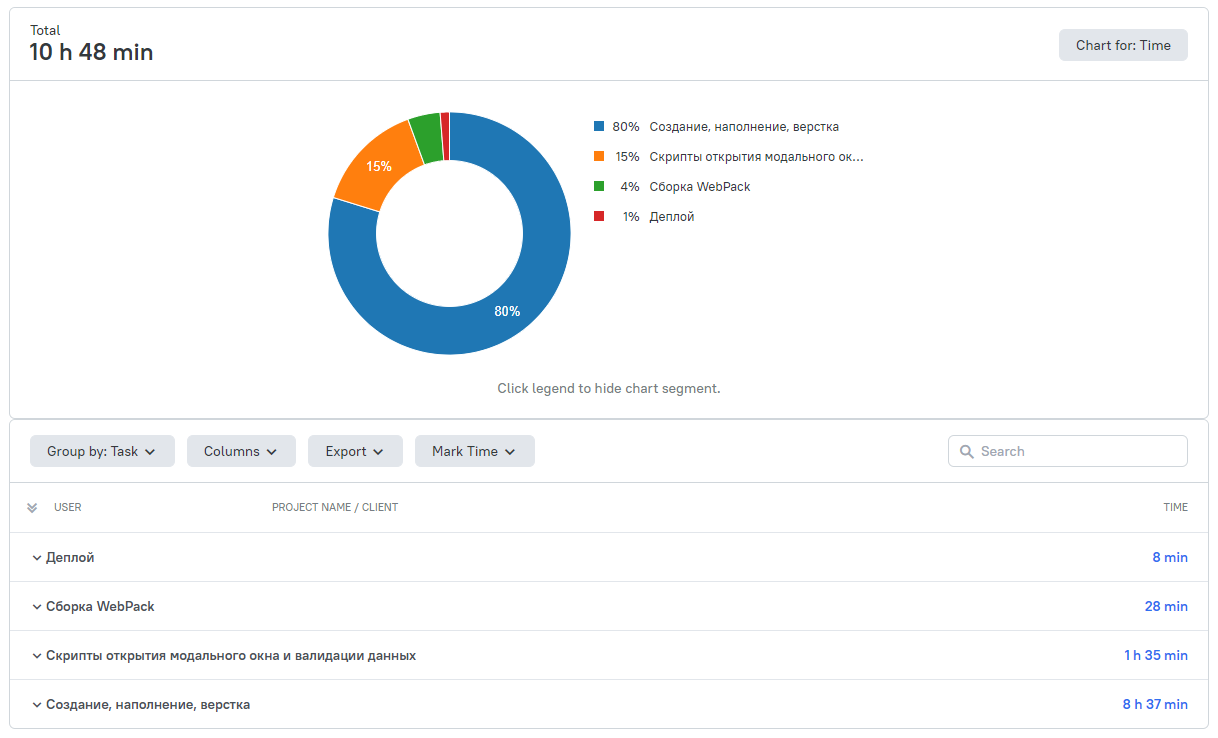
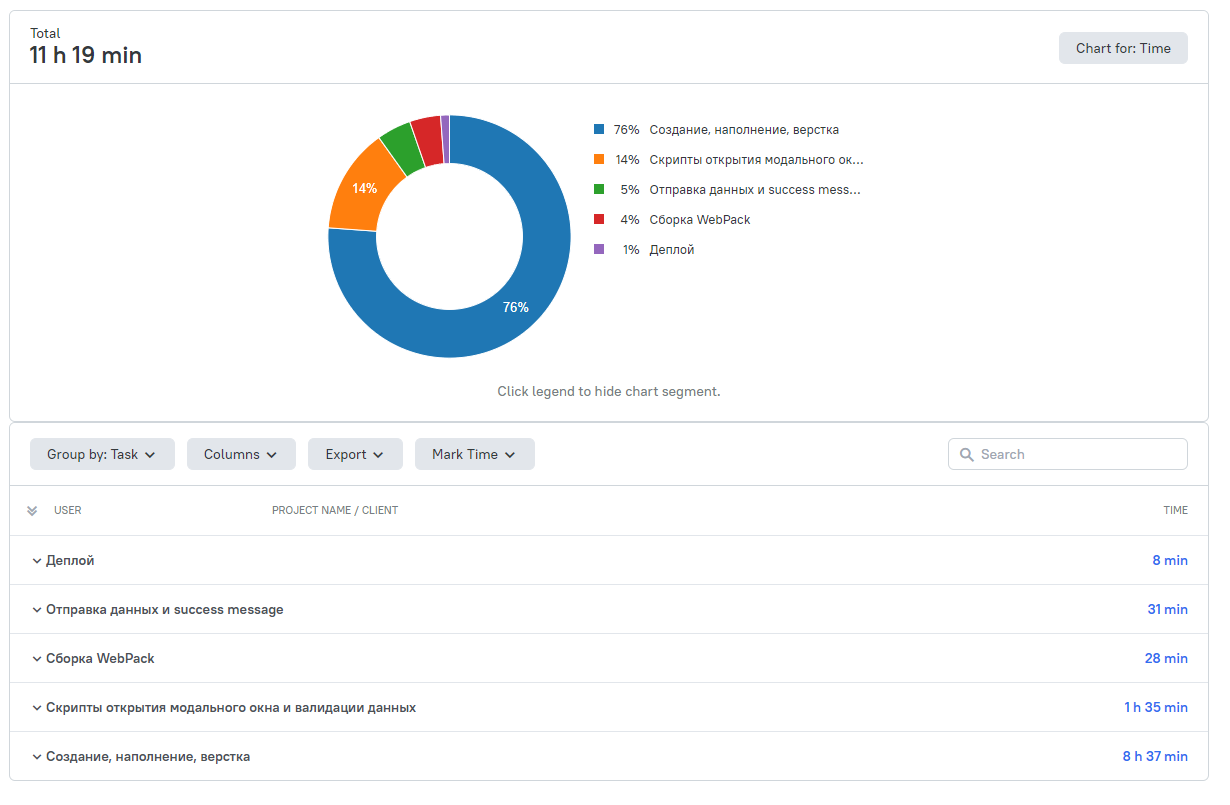
Add success message

diff --git a/src/pages/index.js b/src/pages/index.js
@@ -3,19 +3,32 @@ import {
     contactUsPopup,
     buttonOpenContactUsPopup,
     formPopupContactUs,
+    formContactUsSubmit,
     config,
 } from '../utils/constants.js';
 import FormValidator from '../components/FormValidator.js';
 import PopupWithForm from '../components/PopupWithForm.js';
+import FetchFromData from '../components/FetchFromData';
 
-const popupWithFormProfile = new PopupWithForm(contactUsPopup, formPopupContactUs)
-
+const popupWithFormProfile = new PopupWithForm(contactUsPopup, formPopupContactUs);
 popupWithFormProfile.setEventListeners();
 
 const validationFormContactUs = new FormValidator(config, formPopupContactUs);
 validationFormContactUs.enableValidation();
 
+const fetchFormContactUs = new FetchFromData('https://localhost:3000');
+
+
 buttonOpenContactUsPopup.addEventListener('click', () => {
     validationFormContactUs.resetValidation();
     popupWithFormProfile.open();
 });
+
+formPopupContactUs.addEventListener('submit', fetchData);
+
+function fetchData(e) {
+    e.preventDefault()
+    const { data } = popupWithFormProfile.getData();
+    fetchFormContactUs.fetchToServer({ data });
+    popupWithFormProfile.showSuccessMessage();
+}

diff --git a/src/components/PopupWithForm.js b/src/components/PopupWithForm.js
@@ -5,6 +5,7 @@ export default class PopupWithForm extends Popup {
         super(popup);
         this._inputList = this._popup.querySelectorAll('.popup__field');
         this._formPopup =  form;
+        this._successMessage = this._popup.querySelector('.popup__success');
     }
 
     setEventListeners() {
@@ -14,5 +15,19 @@ export default class PopupWithForm extends Popup {
     close() {
         this._formPopup.reset();
         super.close();
+        this.showSuccessMessage();
+    }
+
+    getData() {
+        let data = {};
+        this._inputList.forEach((input) => {
+            data[`${input.name}`] = input.value;
+        })
+        return data;
+    }
+
+    showSuccessMessage() {
+        this._formPopup.classList.toggle('popup__type_hide');
+        this._successMessage.classList.toggle('popup__type_hide');
     }
 }

diff --git a/src/components/FetchFromData.js b/src/components/FetchFromData.js
@@ -1,0 +1,28 @@
+export default class FetchFromData {
+    constructor(url) {
+        this._url = url;
+    }
+
+    _handleRes(res) {
+        if (res.ok) {
+            return res.json();
+        }
+        return res.json()
+            .then((err) => {
+                const error = new Error(err.message);
+                error.status = res.status;
+                throw error;
+            })
+    }
+
+    fetchToServer ({data}) {
+        return fetch(this._url, {
+            method: 'POST',
+            headers: {
+                "Content-Type": "application/json",
+            },
+            body: JSON.stringify({data}),
+        })
+            .then(this._handleRes)
+    }
+}

diff --git a/src/utils/constants.js b/src/utils/constants.js
@@ -1,6 +1,7 @@
 export const contactUsPopup = document.querySelector('.popup_contact-us');
 export const buttonOpenContactUsPopup = document.querySelector('.job-offer__button');
 export const formPopupContactUs = contactUsPopup.querySelector('.popup__form');
+export const formContactUsSubmit = contactUsPopup.querySelector('.popup__button');
 
 export const config = {
   inputSelector: '.popup__field',

diff --git a/src/pages/index.css b/src/pages/index.css
@@ -72,3 +72,5 @@
 @import '../blocks/popup/__error/popup__error.css';
 @import '../blocks/popup/__button/popup__button.css';
 @import '../blocks/popup/__button-close/popup__button-close.css';
+@import '../blocks/popup/__success/popup__success.css';
+@import '../blocks/popup/__type/_hide/popup__type_hide.css';

diff --git a/src/index.html b/src/index.html
@@ -163,6 +163,7 @@
       <button class="popup__button" type="submit">SUBMIT</button>
     </form>
     <button class="popup__button-close" type="button"></button>
+    <div class="popup__success popup__type_hide">Your message successfully sent</div>
   </div>
 </div>
 </body>

diff --git a/src/blocks/popup/__success/popup__success.css b/src/blocks/popup/__success/popup__success.css
@@ -1,0 +1,6 @@
+.popup__success {
+    color: darkgreen;
+    font-weight: 700;
+    font-size: 20px;
+    text-align: center;
+}

diff --git a/src/blocks/popup/__type/_hide/popup__type_hide.css b/src/blocks/popup/__type/_hide/popup__type_hide.css
@@ -1,0 +1,3 @@
+.popup__type_hide {
+    display: none;
+}
